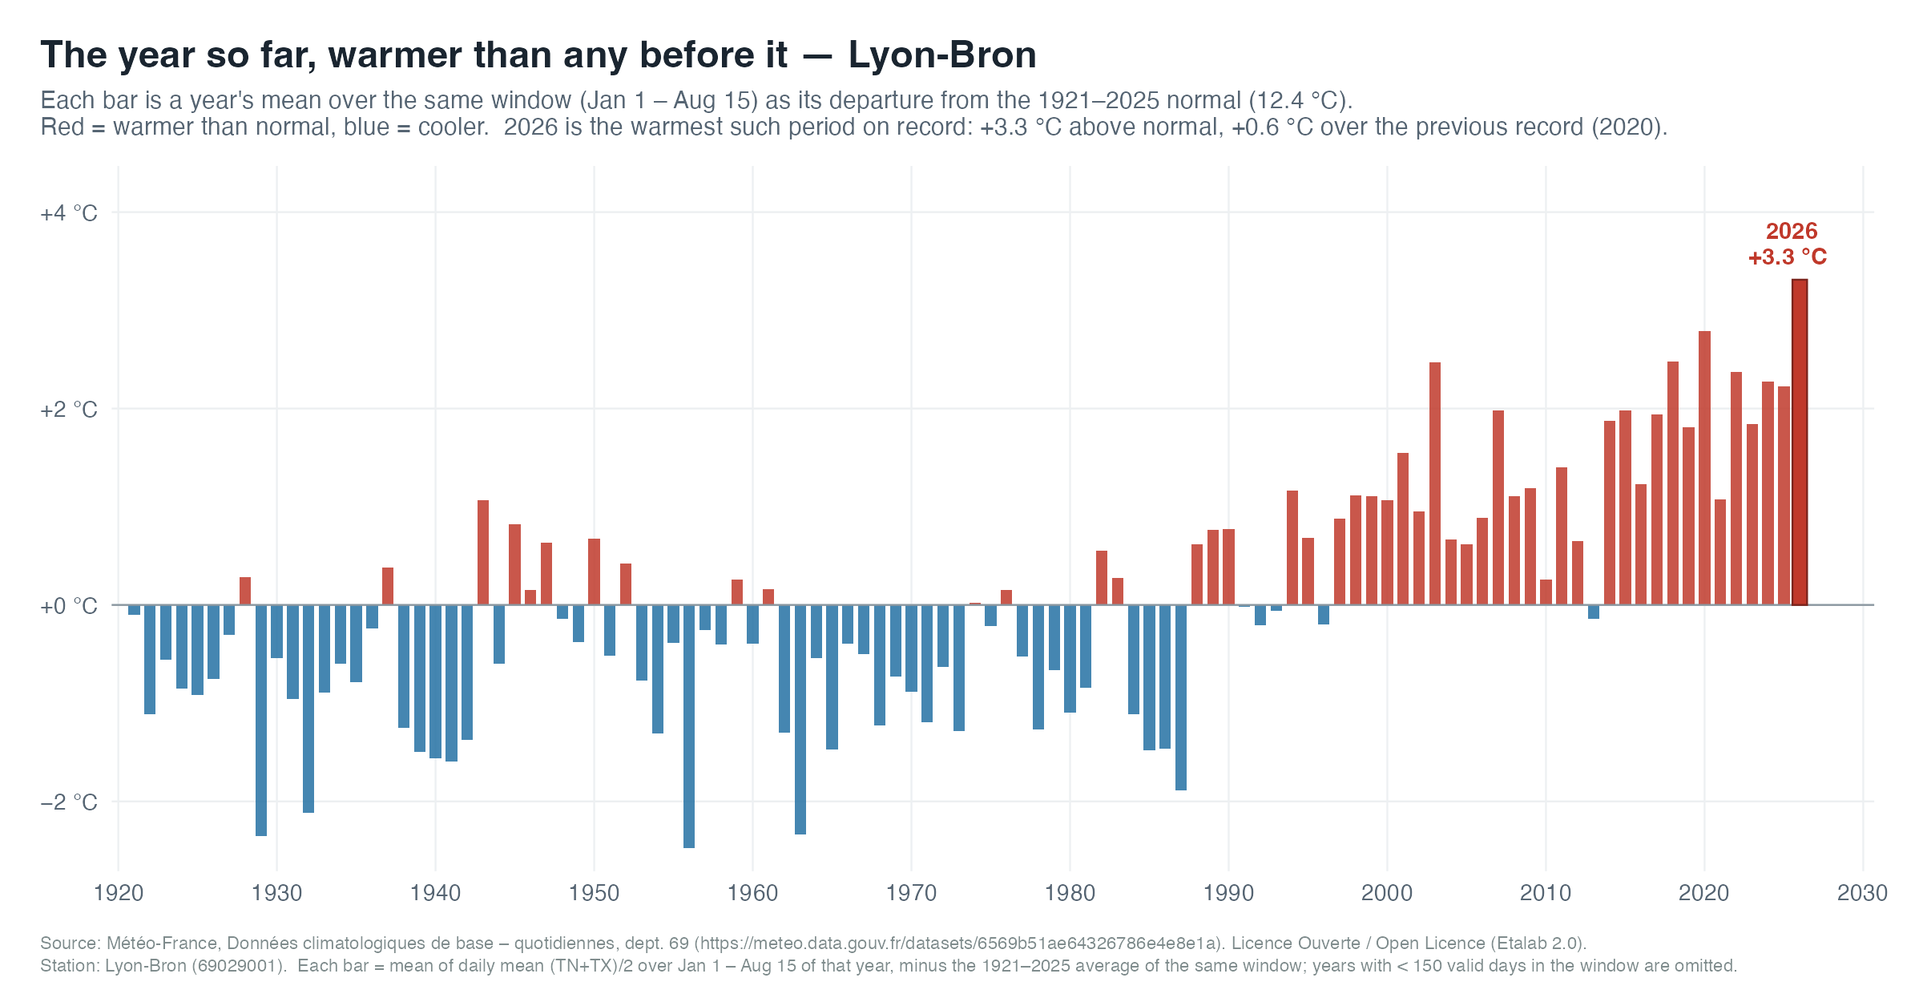
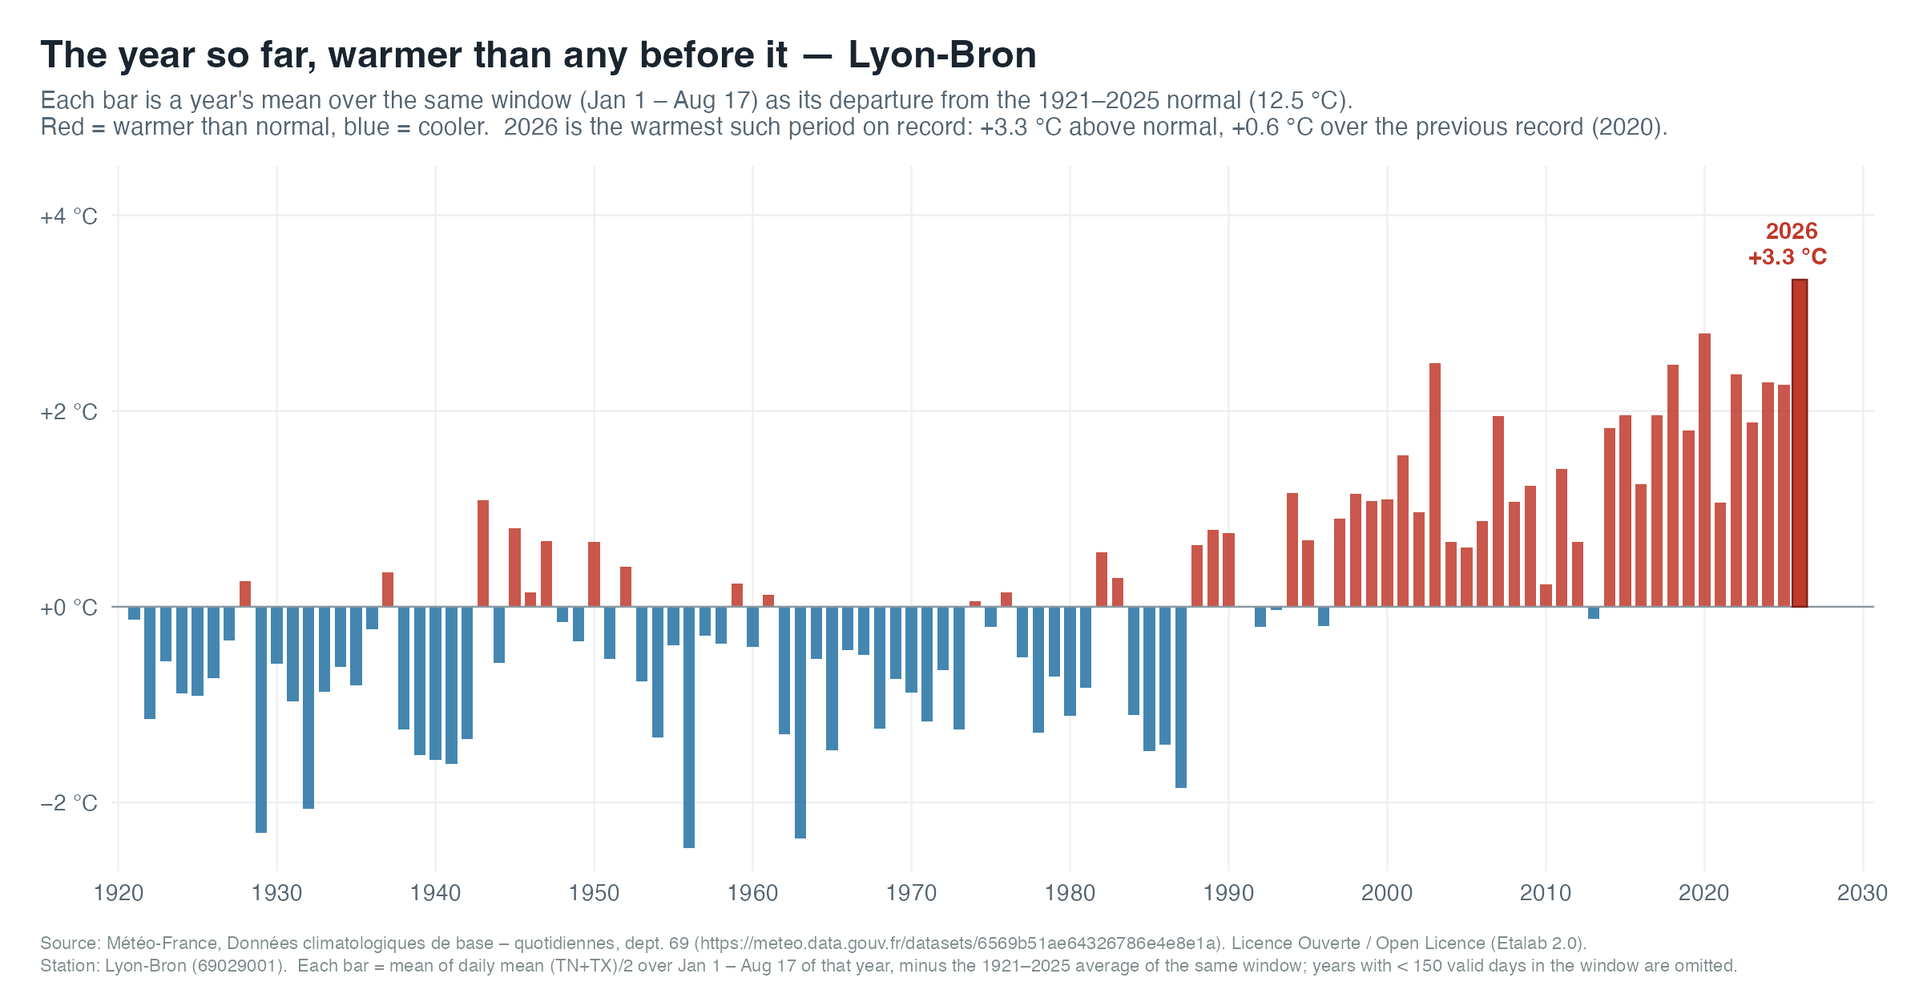
Data refresh: observations through 2026-08-18

Changed region(s): [[0.0312, 0.5928, 0.9688, 0.624]]

diff --git a/README.md b/README.md
@@ -39,15 +39,15 @@ amounts of evidence — the record span and the count of complete years are in t
 |---|---|---:|---:|---:|---|---|---|
 | [Voronezh](#a-warming-climate-seen-from-voronezh) | Russia | 1940→2025 (86 yr, 82 complete) | **+0.46** | +0.49 | #55 of 84 | 2026, Jan 1 – Feb 28 · 59 d | Feb 28, 2026 † |
 | [Moscow](#a-warming-climate-seen-from-moscow) | Russia | 1949→2025 (77 yr, 77 complete) | **+0.39** | +0.41 | #1 of 77 — record | 2025, full year | Dec 31, 2025 † |
-| [Castanet-Tolosan](#a-warming-climate-seen-from-castanet-tolosan) | France | 1947→2025 (79 yr, 79 complete) | **+0.34** | +0.39 | #1 of 80 — record | 2026, Jan 1 – Aug 15 · 227 d | Aug 15, 2026 |
+| [Castanet-Tolosan](#a-warming-climate-seen-from-castanet-tolosan) | France | 1947→2025 (79 yr, 79 complete) | **+0.34** | +0.39 | #1 of 80 — record | 2026, Jan 1 – Aug 17 · 229 d | Aug 17, 2026 |
 | [Irvine](#a-warming-climate-seen-from-irvine) | USA | 1915→2025 (111 yr, 95 complete) | **+0.27** | +0.43 | #2 of 101 | 2026, Jan 1 – May 31 · 151 d | May 31, 2026 |
-| [Lyon](#a-warming-climate-seen-from-lyon) | France | 1921→2025 (105 yr, 105 complete) | **+0.26** | +0.42 | #1 of 106 — record | 2026, Jan 1 – Aug 15 · 227 d | Aug 15, 2026 |
-| [Honolulu](#a-warming-climate-seen-from-honolulu) | USA | 1950→2025 (76 yr, 76 complete) | **+0.20** | +0.20 | #18 of 84 | 2026, Jan 1 – Aug 13 · 225 d | Aug 13, 2026 |
-| [Nouméa](#a-warming-climate-seen-from-nouméa) | France | 1951→2025 (75 yr, 75 complete) | **+0.19** | +0.19 | #7 of 76 | 2026, Jan 1 – Aug 16 · 228 d | Aug 16, 2026 |
-| [Paris](#a-warming-climate-seen-from-paris) | France | 1873→2025 (153 yr, 153 complete) | **+0.18** | +0.34 | #1 of 154 — record | 2026, Jan 1 – Aug 15 · 227 d | Aug 15, 2026 |
-| [Albuquerque](#a-warming-climate-seen-from-albuquerque) | USA | 1932→2025 (94 yr, 94 complete) | **+0.18** | +0.22 | #1 of 95 — record | 2026, Jan 1 – Aug 13 · 225 d | Aug 13, 2026 |
-| [Zurich](#a-warming-climate-seen-from-zurich) | Switzerland | 1882→2025 (144 yr, 143 complete) | **+0.18** | +0.37 | #1 of 144 — record | 2026, Jan 1 – Aug 15 · 227 d | Aug 15, 2026 |
-| [Karlsruhe](#a-warming-climate-seen-from-karlsruhe) | Germany | 1876→2025 (150 yr, 148 complete) | **+0.14** | +0.27 | #2 of 150 | 2026, Jan 1 – Aug 15 · 227 d | Aug 15, 2026 |
+| [Lyon](#a-warming-climate-seen-from-lyon) | France | 1921→2025 (105 yr, 105 complete) | **+0.26** | +0.42 | #1 of 106 — record | 2026, Jan 1 – Aug 17 · 229 d | Aug 17, 2026 |
+| [Honolulu](#a-warming-climate-seen-from-honolulu) | USA | 1950→2025 (76 yr, 76 complete) | **+0.20** | +0.20 | #18 of 84 | 2026, Jan 1 – Aug 15 · 227 d | Aug 15, 2026 |
+| [Nouméa](#a-warming-climate-seen-from-nouméa) | France | 1951→2025 (75 yr, 75 complete) | **+0.19** | +0.19 | #7 of 76 | 2026, Jan 1 – Aug 18 · 230 d | Aug 18, 2026 |
+| [Paris](#a-warming-climate-seen-from-paris) | France | 1873→2025 (153 yr, 153 complete) | **+0.18** | +0.34 | #1 of 154 — record | 2026, Jan 1 – Aug 17 · 229 d | Aug 17, 2026 |
+| [Albuquerque](#a-warming-climate-seen-from-albuquerque) | USA | 1932→2025 (94 yr, 94 complete) | **+0.18** | +0.22 | #1 of 95 — record | 2026, Jan 1 – Aug 15 · 227 d | Aug 15, 2026 |
+| [Zurich](#a-warming-climate-seen-from-zurich) | Switzerland | 1882→2025 (144 yr, 143 complete) | **+0.18** | +0.37 | #1 of 144 — record | 2026, Jan 1 – Aug 18 · 230 d | Aug 18, 2026 |
+| [Karlsruhe](#a-warming-climate-seen-from-karlsruhe) | Germany | 1876→2025 (150 yr, 148 complete) | **+0.14** | +0.27 | #2 of 150 | 2026, Jan 1 – Aug 17 · 229 d | Aug 17, 2026 |
 | [Santa Fe](#a-warming-climate-seen-from-santa-fe) | USA | 1874→2025 (152 yr, 138 complete) | **+0.08** | +0.13 | #1 of 147 — record | 2026, Jan 1 – Jun 30 · 181 d | Jun 30, 2026 |
 
 † Moscow and Voronezh are manually exported from Roshydromet’s AISORI-M (login-gated, no automated
@@ -156,7 +156,7 @@ the mid-20th century, daily minimum, maximum and mean temperatures have all rise
 | Frost days per year, 1947–1956 → 2016–2025 | **46 → 18** |
 | Hot days (≥ 30 °C) per year, 1947–1956 → 2016–2025 | **24 → 47** |
 | Complete station-years analysed | **101** |
-| 2026 year-to-date (Jan 1 – Aug 15), against 79 prior years | **#1 of 80 — record** |
+| 2026 year-to-date (Jan 1 – Aug 17), against 79 prior years | **#1 of 80 — record** |
 
 ### The long view: annual means
 
@@ -175,12 +175,12 @@ whole period. The local Auzeville-Tolosane-INRAE station only covers 2004→2025
 
 ![Per-year mean over the same Jan-to-cutoff window, as a departure from the 1947–2025 mean, with 2026 the largest bar](outputs/figures/temperature_ytd.png)
 
-<sub>Each bar is a year’s mean over the <em>same window</em> — <strong>Jan 1 – Aug 15</strong> —
-shown as its departure from the 1947–2025 mean (13.7 °C): red above, blue
+<sub>Each bar is a year’s mean over the <em>same window</em> — <strong>Jan 1 – Aug 17</strong> —
+shown as its departure from the 1947–2025 mean (13.8 °C): red above, blue
 below. Holding the part-of-year identical is what makes one year comparable with another. The bars swing from blue to red over
 the decades — and 2026 is the tallest of all.</sub>
 
-Measured like-for-like, **2026 is the warmest Jan 1 – Aug 15 in 80 years** at Toulouse-Blagnac: **17.0 °C** — +0.8 °C above the previous record (2025, 16.2 °C) and **+3.3 °C above the 1947–2025 mean** (13.7 °C).
+Measured like-for-like, **2026 is the warmest Jan 1 – Aug 17 in 80 years** at Toulouse-Blagnac: **17.1 °C** — +0.8 °C above the previous record (2025, 16.3 °C) and **+3.3 °C above the 1947–2025 mean** (13.8 °C).
 
 > [!NOTE]
 > A part-year mean cannot be compared with other years' full-year means. That is why 2026 appears on the long-view chart above only as a marked, hollow "to date" point — a part-year mean on an axis of full-year means — while its like-for-like standing is the chart here.
@@ -235,7 +235,7 @@ At Toulouse-Blagnac, the all-time heat (2023-08-23) postdates the all-time cold 
 | 2023 | 10.7 | 20.8 | **15.7** |
 | 2024 | 10.5 | 19.6 | **15.1** |
 | 2025 | 10.7 | 20.6 | **15.6** |
-| 2026 *(to date)* | 11.7 | 22.4 | **17.0** |
+| 2026 *(to date)* | 11.8 | 22.4 | **17.1** |
 
 ### Frost days down, hot days up
 
@@ -307,7 +307,7 @@ the late 19th century, daily minimum, maximum and mean temperatures have all ris
 | Frost days per year, 1873–1882 → 2016–2025 | **55 → 15** |
 | Hot days (≥ 30 °C) per year, 1873–1882 → 2016–2025 | **8 → 20** |
 | Complete station-years analysed | **198** |
-| 2026 year-to-date (Jan 1 – Aug 15), against 153 prior years | **#1 of 154 — record** |
+| 2026 year-to-date (Jan 1 – Aug 17), against 153 prior years | **#1 of 154 — record** |
 
 ### The long view: annual means
 
@@ -326,12 +326,12 @@ whole period. The local Paris-Luxembourg station only covers 1978→2025. Its sl
 
 ![Per-year mean over the same Jan-to-cutoff window, as a departure from the 1873–2025 mean, with 2026 the largest bar](outputs/paris/figures/temperature_ytd.png)
 
-<sub>Each bar is a year’s mean over the <em>same window</em> — <strong>Jan 1 – Aug 15</strong> —
+<sub>Each bar is a year’s mean over the <em>same window</em> — <strong>Jan 1 – Aug 17</strong> —
 shown as its departure from the 1873–2025 mean (12.0 °C): red above, blue
 below. Holding the part-of-year identical is what makes one year comparable with another. The bars swing from blue to red over
 the decades — and 2026 is the tallest of all.</sub>
 
-Measured like-for-like, **2026 is the warmest Jan 1 – Aug 15 in 154 years** at Paris-Montsouris: **16.0 °C** — +1.2 °C above the previous record (2020, 14.8 °C) and **+4.1 °C above the 1873–2025 mean** (12.0 °C).
+Measured like-for-like, **2026 is the warmest Jan 1 – Aug 17 in 154 years** at Paris-Montsouris: **16.1 °C** — +1.2 °C above the previous record (2020, 14.9 °C) and **+4.1 °C above the 1873–2025 mean** (12.0 °C).
 
 > [!NOTE]
 > A part-year mean cannot be compared with other years' full-year means. That is why 2026 appears on the long-view chart above only as a marked, hollow "to date" point — a part-year mean on an axis of full-year means — while its like-for-like standing is the chart here.
@@ -386,7 +386,7 @@ At Paris-Montsouris, the all-time heat (2019-07-25) postdates the all-time cold 
 | 2023 | 10.5 | 18.0 | **14.3** |
 | 2024 | 10.1 | 17.0 | **13.6** |
 | 2025 | 9.9 | 17.8 | **13.8** |
-| 2026 *(to date)* | 11.3 | 20.7 | **16.0** |
+| 2026 *(to date)* | 11.4 | 20.8 | **16.1** |
 
 ### Frost days down, hot days up
 
@@ -458,7 +458,7 @@ the early 20th century, daily minimum, maximum and mean temperatures have all ri
 | Frost days per year, 1921–1930 → 2016–2025 | **64 → 33** |
 | Hot days (≥ 30 °C) per year, 1921–1930 → 2016–2025 | **19 → 48** |
 | Complete station-years analysed | **155** |
-| 2026 year-to-date (Jan 1 – Aug 15), against 105 prior years | **#1 of 106 — record** |
+| 2026 year-to-date (Jan 1 – Aug 17), against 105 prior years | **#1 of 106 — record** |
 
 ### The long view: annual means
 
@@ -477,12 +477,12 @@ whole period. The local Lyon-Saint-Exupéry station only covers 1976→2025. Its
 
 ![Per-year mean over the same Jan-to-cutoff window, as a departure from the 1921–2025 mean, with 2026 the largest bar](outputs/lyon/figures/temperature_ytd.png)
 
-<sub>Each bar is a year’s mean over the <em>same window</em> — <strong>Jan 1 – Aug 15</strong> —
-shown as its departure from the 1921–2025 mean (12.4 °C): red above, blue
+<sub>Each bar is a year’s mean over the <em>same window</em> — <strong>Jan 1 – Aug 17</strong> —
+shown as its departure from the 1921–2025 mean (12.5 °C): red above, blue
 below. Holding the part-of-year identical is what makes one year comparable with another. The bars swing from blue to red over
 the decades — and 2026 is the tallest of all.</sub>
 
-Measured like-for-like, **2026 is the warmest Jan 1 – Aug 15 in 106 years** at Lyon-Bron: **15.8 °C** — +0.6 °C above the previous record (2020, 15.2 °C) and **+3.3 °C above the 1921–2025 mean** (12.4 °C).
+Measured like-for-like, **2026 is the warmest Jan 1 – Aug 17 in 106 years** at Lyon-Bron: **15.9 °C** — +0.6 °C above the previous record (2020, 15.3 °C) and **+3.3 °C above the 1921–2025 mean** (12.5 °C).
 
 > [!NOTE]
 > A part-year mean cannot be compared with other years' full-year means. That is why 2026 appears on the long-view chart above only as a marked, hollow "to date" point — a part-year mean on an axis of full-year means — while its like-for-like standing is the chart here.
@@ -537,7 +537,7 @@ At Lyon-Bron, the all-time heat (2023-08-24) postdates the all-time cold (1938-1
 | 2023 | 9.3 | 19.7 | **14.5** |
 | 2024 | 9.4 | 18.5 | **14.0** |
 | 2025 | 9.0 | 18.8 | **13.9** |
-| 2026 *(to date)* | 9.7 | 21.8 | **15.8** |
+| 2026 *(to date)* | 9.8 | 21.9 | **15.9** |
 
 ### Frost days down, hot days up
 
@@ -609,7 +609,7 @@ the late 19th century, daily minimum, maximum and mean temperatures have all ris
 | Frost days per year, 1876–1885 → 2016–2025 | **67 → 59** |
 | Hot days (≥ 30 °C) per year, 1876–1885 → 2016–2025 | **7 → 26** |
 | Complete station-years analysed | **148** |
-| 2026 year-to-date (Jan 1 – Aug 15), against 149 prior years | **#2 of 150** |
+| 2026 year-to-date (Jan 1 – Aug 17), against 149 prior years | **#2 of 150** |
 
 ### The long view: annual means
 
@@ -628,12 +628,12 @@ whole period. Karlsruhe-Wolfartsweier carries no temperature record; Rheinstette
 
 ![Per-year mean over the same Jan-to-cutoff window, as a departure from the 1876–2025 mean, with 2026 highlighted](outputs/karlsruhe/figures/temperature_ytd.png)
 
-<sub>Each bar is a year’s mean over the <em>same window</em> — <strong>Jan 1 – Aug 15</strong> —
-shown as its departure from the 1876–2025 mean (11.0 °C): red above, blue
+<sub>Each bar is a year’s mean over the <em>same window</em> — <strong>Jan 1 – Aug 17</strong> —
+shown as its departure from the 1876–2025 mean (11.1 °C): red above, blue
 below. Holding the part-of-year identical is what makes one year comparable with another. The bars swing from blue to red over
 the decades.</sub>
 
-Measured like-for-like over Jan 1 – Aug 15, 2026 ranks **#2 of 150** at Rheinstetten (13.4 °C). The warmest such window on record remains 2007 (13.7 °C).
+Measured like-for-like over Jan 1 – Aug 17, 2026 ranks **#2 of 150** at Rheinstetten (13.5 °C). The warmest such window on record remains 2007 (13.7 °C).
 
 > [!NOTE]
 > A part-year mean cannot be compared with other years' full-year means. That is why 2026 appears on the long-view chart above only as a marked, hollow "to date" point — a part-year mean on an axis of full-year means — while its like-for-like standing is the chart here.
@@ -686,7 +686,7 @@ At Rheinstetten, the all-time heat (2026-06-27) postdates the all-time cold (194
 | 2023 | 7.9 | 17.6 | **12.8** |
 | 2024 | 7.7 | 16.9 | **12.3** |
 | 2025 | 6.3 | 17.0 | **11.6** |
-| 2026 *(to date)* | 7.2 | 19.7 | **13.4** |
+| 2026 *(to date)* | 7.3 | 19.8 | **13.5** |
 
 ### Frost days down, hot days up
 
@@ -758,7 +758,7 @@ the late 19th century, daily minimum, maximum and mean temperatures have all ris
 | Frost days per year, 1882–1891 → 2016–2025 | **111 → 61** |
 | Hot days (≥ 30 °C) per year, 1882–1891 → 2016–2025 | **4 → 12** |
 | Complete station-years analysed | **190** |
-| 2026 year-to-date (Jan 1 – Aug 15), against 143 prior years | **#1 of 144 — record** |
+| 2026 year-to-date (Jan 1 – Aug 18), against 143 prior years | **#1 of 144 — record** |
 
 ### The long view: annual means
 
@@ -777,12 +777,12 @@ whole period. The local Zürich-Affoltern station only covers 1979→2025. Its s
 
 ![Per-year mean over the same Jan-to-cutoff window, as a departure from the 1882–2025 mean, with 2026 the largest bar](outputs/zurich/figures/temperature_ytd.png)
 
-<sub>Each bar is a year’s mean over the <em>same window</em> — <strong>Jan 1 – Aug 15</strong> —
-shown as its departure from the 1882–2025 mean (9.4 °C): red above, blue
+<sub>Each bar is a year’s mean over the <em>same window</em> — <strong>Jan 1 – Aug 18</strong> —
+shown as its departure from the 1882–2025 mean (9.5 °C): red above, blue
 below. Holding the part-of-year identical is what makes one year comparable with another. The bars swing from blue to red over
 the decades — and 2026 is the tallest of all.</sub>
 
-Measured like-for-like, **2026 is the warmest Jan 1 – Aug 15 in 144 years** at Zürich-Fluntern: **13.0 °C** — +0.6 °C above the previous record (2022, 12.4 °C) and **+3.5 °C above the 1882–2025 mean** (9.4 °C).
+Measured like-for-like, **2026 is the warmest Jan 1 – Aug 18 in 144 years** at Zürich-Fluntern: **13.1 °C** — +0.6 °C above the previous record (2022, 12.5 °C) and **+3.5 °C above the 1882–2025 mean** (9.5 °C).
 
 > [!NOTE]
 > A part-year mean cannot be compared with other years' full-year means. That is why 2026 appears on the long-view chart above only as a marked, hollow "to date" point — a part-year mean on an axis of full-year means — while its like-for-like standing is the chart here.
@@ -837,7 +837,7 @@ At Zürich-Fluntern, the all-time heat (2026-06-27) postdates the all-time cold 
 | 2023 | 7.8 | 15.8 | **11.8** |
 | 2024 | 7.7 | 15.0 | **11.4** |
 | 2025 | 7.0 | 14.9 | **11.0** |
-| 2026 *(to date)* | 8.0 | 17.9 | **13.0** |
+| 2026 *(to date)* | 8.1 | 18.0 | **13.1** |
 
 ### Frost days down, hot days up
 
@@ -1357,7 +1357,7 @@ the mid-20th century, daily minimum, maximum and mean temperatures have all rise
 | Frost days per year, 1932–1941 → 2016–2025 | **120 → 79** |
 | Hot days (≥ 30 °C) per year, 1932–1941 → 2016–2025 | **92 → 106** |
 | Complete station-years analysed | **124** |
-| 2026 year-to-date (Jan 1 – Aug 13), against 94 prior years | **#1 of 95 — record** |
+| 2026 year-to-date (Jan 1 – Aug 15), against 94 prior years | **#1 of 95 — record** |
 
 ### The long view: annual means
 
@@ -1376,12 +1376,12 @@ whole period. The local Albuquerque Foothills NE station only covers 1992→2025
 
 ![Per-year mean over the same Jan-to-cutoff window, as a departure from the 1932–2025 mean, with 2026 the largest bar](outputs/albuquerque/figures/temperature_ytd.png)
 
-<sub>Each bar is a year’s mean over the <em>same window</em> — <strong>Jan 1 – Aug 13</strong> —
+<sub>Each bar is a year’s mean over the <em>same window</em> — <strong>Jan 1 – Aug 15</strong> —
 shown as its departure from the 1932–2025 mean (14.7 °C): red above, blue
 below. Holding the part-of-year identical is what makes one year comparable with another. The bars swing from blue to red over
 the decades — and 2026 is the tallest of all.</sub>
 
-Measured like-for-like, **2026 is the warmest Jan 1 – Aug 13 in 95 years** at Albuquerque Airport: **17.9 °C** — +1.5 °C above the previous record (2012, 16.4 °C) and **+3.3 °C above the 1932–2025 mean** (14.7 °C).
+Measured like-for-like, **2026 is the warmest Jan 1 – Aug 15 in 95 years** at Albuquerque Airport: **18.0 °C** — +1.5 °C above the previous record (2012, 16.5 °C) and **+3.3 °C above the 1932–2025 mean** (14.7 °C).
 
 > [!NOTE]
 > A part-year mean cannot be compared with other years' full-year means. That is why 2026 appears on the long-view chart above only as a marked, hollow "to date" point — a part-year mean on an axis of full-year means — while its like-for-like standing is the chart here.
@@ -1436,7 +1436,7 @@ At Albuquerque Airport, the all-time heat (1994-06-26) postdates the all-time co
 | 2023 | 8.3 | 21.9 | **15.1** |
 | 2024 | 8.5 | 22.7 | **15.6** |
 | 2025 | 9.0 | 23.0 | **16.0** |
-| 2026 *(to date)* | 10.5 | 25.4 | **17.9** |
+| 2026 *(to date)* | 10.6 | 25.5 | **18.0** |
 
 ### Frost days down, hot days up
 
@@ -1659,7 +1659,7 @@ the mid-20th century, daily minimum, maximum and mean temperatures have all rise
 | Frost days per year, 1950–1959 → 2016–2025 | **0 → 0** |
 | Hot days (≥ 30 °C) per year, 1950–1959 → 2016–2025 | **42 → 175** |
 | Complete station-years analysed | **76** |
-| 2026 year-to-date (Jan 1 – Aug 13), against 83 prior years | **#18 of 84** |
+| 2026 year-to-date (Jan 1 – Aug 15), against 83 prior years | **#18 of 84** |
 
 ### The long view: annual means
 
@@ -1678,12 +1678,12 @@ whole period. Honolulu-Moanalua carries no temperature record; Honolulu Airport 
 
 ![Per-year mean over the same Jan-to-cutoff window, as a departure from the 1941–2025 mean, with 2026 highlighted](outputs/honolulu/figures/temperature_ytd.png)
 
-<sub>Each bar is a year’s mean over the <em>same window</em> — <strong>Jan 1 – Aug 13</strong> —
-shown as its departure from the 1941–2025 mean (24.8 °C): red above, blue
+<sub>Each bar is a year’s mean over the <em>same window</em> — <strong>Jan 1 – Aug 15</strong> —
+shown as its departure from the 1941–2025 mean (24.9 °C): red above, blue
 below. Holding the part-of-year identical is what makes one year comparable with another. The bars swing from blue to red over
 the decades.</sub>
 
-Measured like-for-like over Jan 1 – Aug 13, 2026 ranks **#18 of 84** at Honolulu Airport (25.3 °C). The warmest such window on record remains 2025 (26.0 °C).
+Measured like-for-like over Jan 1 – Aug 15, 2026 ranks **#18 of 84** at Honolulu Airport (25.4 °C). The warmest such window on record remains 2025 (26.1 °C).
 
 > [!NOTE]
 > A part-year mean cannot be compared with other years' full-year means. That is why 2026 appears on the long-view chart above only as a marked, hollow "to date" point — a part-year mean on an axis of full-year means — while its like-for-like standing is the chart here.
@@ -1736,7 +1736,7 @@ At Honolulu Airport, the all-time heat (1994-09-19) postdates the all-time cold 
 | 2023 | 22.3 | 29.5 | **25.9** |
 | 2024 | 22.2 | 29.2 | **25.7** |
 | 2025 | 22.7 | 29.9 | **26.3** |
-| 2026 *(to date)* | 22.0 | 28.7 | **25.3** |
+| 2026 *(to date)* | 22.0 | 28.7 | **25.4** |
 
 ### Frost days at zero, hot days up
 
@@ -1808,7 +1808,7 @@ the mid-20th century, daily minimum, maximum and mean temperatures have all rise
 | Frost days per year, 1951–1960 → 2016–2025 | **0 → 0** |
 | Hot days (≥ 30 °C) per year, 1951–1960 → 2016–2025 | **32 → 74** |
 | Complete station-years analysed | **137** |
-| 2026 year-to-date (Jan 1 – Aug 16), against 75 prior years | **#7 of 76** |
+| 2026 year-to-date (Jan 1 – Aug 18), against 75 prior years | **#7 of 76** |
 
 ### The long view: annual means
 
@@ -1827,12 +1827,12 @@ whole period. The local Nouméa-Magenta station only covers 1964→2025. Its slo
 
 ![Per-year mean over the same Jan-to-cutoff window, as a departure from the 1951–2025 mean, with 2026 highlighted](outputs/noumea/figures/temperature_ytd.png)
 
-<sub>Each bar is a year’s mean over the <em>same window</em> — <strong>Jan 1 – Aug 16</strong> —
+<sub>Each bar is a year’s mean over the <em>same window</em> — <strong>Jan 1 – Aug 18</strong> —
 shown as its departure from the 1951–2025 mean (23.6 °C): red above, blue
 below. Holding the part-of-year identical is what makes one year comparable with another. The bars swing from blue to red over
 the decades.</sub>
 
-Measured like-for-like over Jan 1 – Aug 16, 2026 ranks **#7 of 76** at Nouméa (24.5 °C). The warmest such window on record remains 2022 (25.1 °C).
+Measured like-for-like over Jan 1 – Aug 18, 2026 ranks **#7 of 76** at Nouméa (24.5 °C). The warmest such window on record remains 1998 (25.1 °C).
 
 > [!NOTE]
 > A part-year mean cannot be compared with other years' full-year means. That is why 2026 appears on the long-view chart above only as a marked, hollow "to date" point — a part-year mean on an axis of full-year means — while its like-for-like standing is the chart here.
@@ -1887,7 +1887,7 @@ At Nouméa, the all-time heat (1986-01-25) postdates the all-time cold (1961-08-
 | 2023 | 20.6 | 27.1 | **23.9** |
 | 2024 | 21.3 | 27.9 | **24.6** |
 | 2025 | 21.5 | 28.1 | **24.8** |
-| 2026 *(to date)* | 21.4 | 27.7 | **24.5** |
+| 2026 *(to date)* | 21.3 | 27.7 | **24.5** |
 
 ### Frost days at zero, hot days up
 
